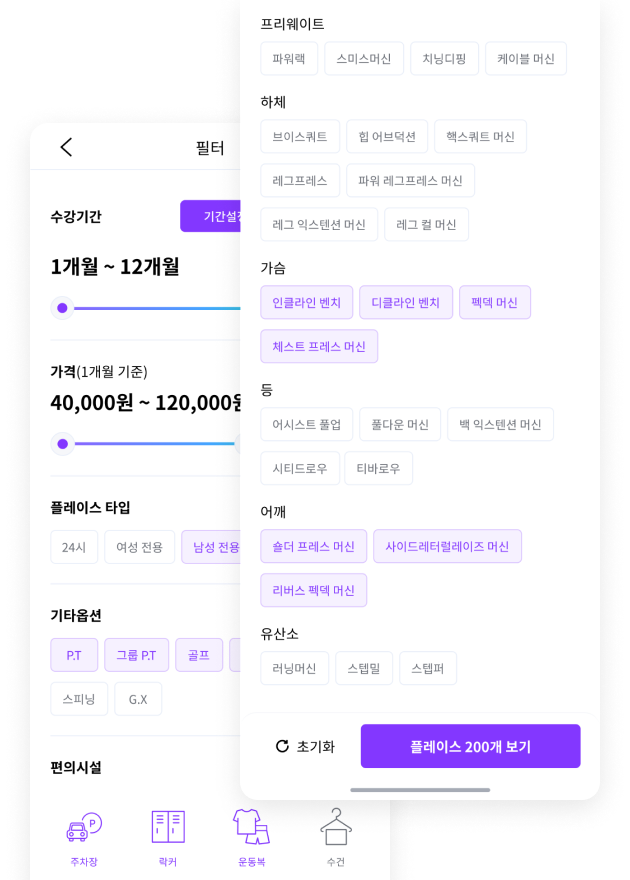
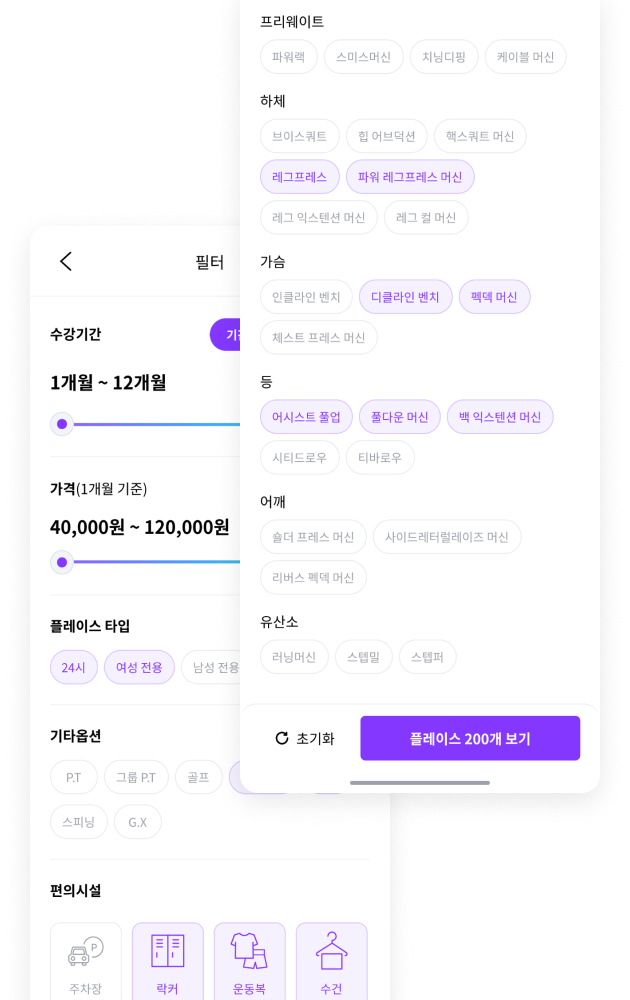
top버튼추가, 일부 이미지 변경

diff --git a/scss/style.css b/scss/style.css
@@ -618,3 +618,30 @@ section[class^=con-], footer {
 .wrap.pc .pagination ul li:not(:last-of-type) {
   margin-bottom: 12px;
 }
+.wrap.pc .button-top {
+  position: fixed;
+  display: -webkit-box;
+  display: -ms-flexbox;
+  display: flex;
+  -webkit-box-pack: space-evenly;
+      -ms-flex-pack: space-evenly;
+          justify-content: space-evenly;
+  -webkit-box-align: center;
+      -ms-flex-align: center;
+          align-items: center;
+  -webkit-box-orient: vertical;
+  -webkit-box-direction: normal;
+      -ms-flex-direction: column;
+          flex-direction: column;
+  width: 100px;
+  height: 100px;
+  bottom: 6.77vw;
+  right: 8.4375vw;
+  font-size: 28px;
+  font-weight: 400;
+  color: inherit;
+  border-radius: 50%;
+  color: #fff;
+  background-color: #000;
+  cursor: pointer;
+}

diff --git a/index.html b/index.html
@@ -236,12 +236,16 @@
         </div>
       </footer>
 
-      <aside class="pagination">
-        <ul></ul>
+      <aside class="button-top">
+        <img src="assets/img/icon-top.png" alt="" />
+        <p>TOP</p>
       </aside>
     </main>
 
-    <script src="/js/index.js"></script>
-    <script></script>
+    <script>
+      document.querySelector(".button-top").addEventListener("click", () => {
+        window.scrollTo(0, 0);
+      });
+    </script>
   </body>
 </html>

diff --git a/scss/style.scss b/scss/style.scss
@@ -410,4 +410,18 @@ section[class^="con-"],footer{
       }
     }
   }
+  .button-top{
+    position: fixed;
+    @include flex(space-evenly);
+    flex-direction: column;
+    width: 100px;
+    height: 100px;
+    bottom: 6.77vw;
+    right: 8.4375vw;
+    @include font(28px,400);
+    border-radius: 50%;
+    color: #fff;
+    background-color: #000;
+    cursor: pointer;
+  }
 }
